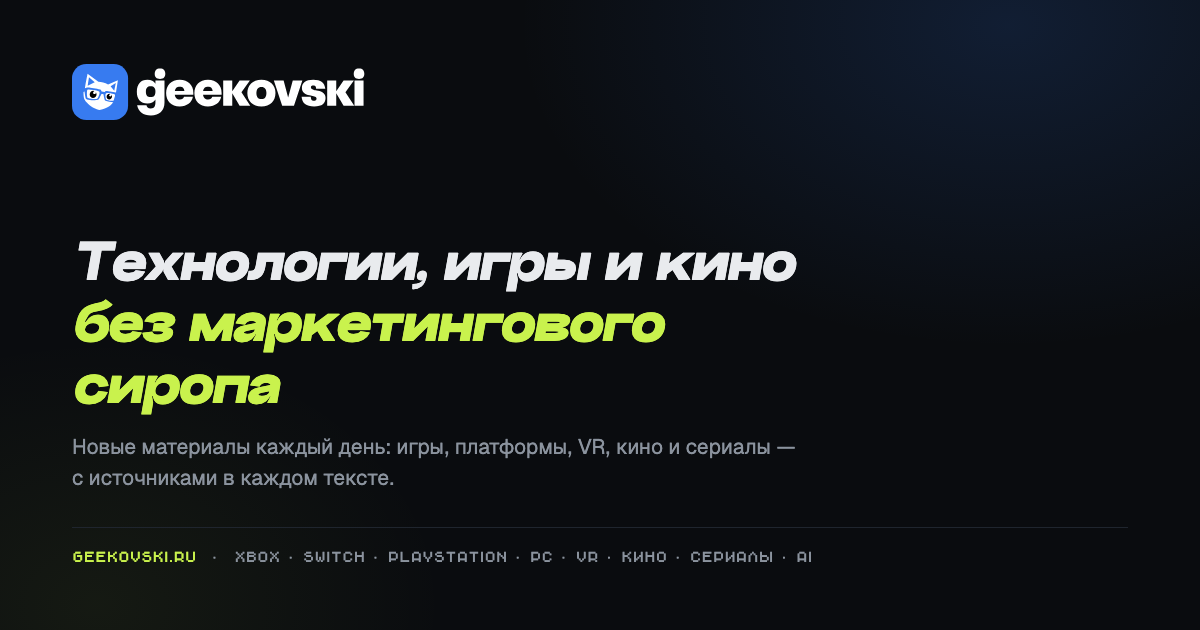
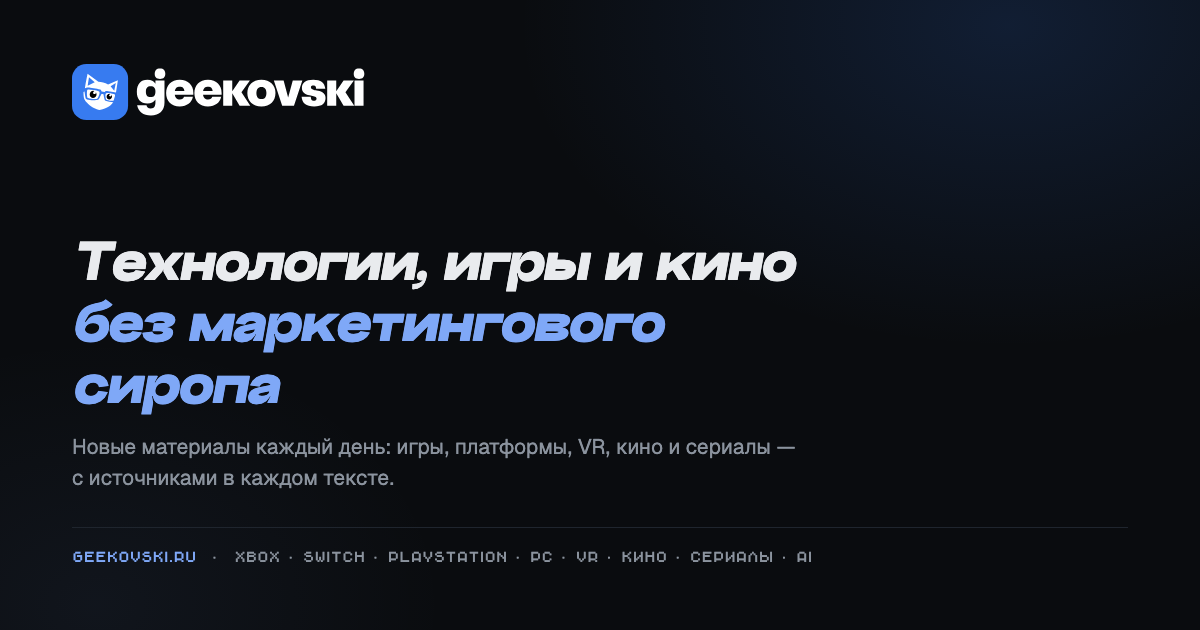
theme: акцент — синий из логотипа вместо лаймового
- тёмная тема: --accent #377bf0 (4.9:1 на фоне, 4.58:1 на плашке),
  краска на заливке — тёмная, 4.9:1
- светлая тема: тот же синий даёт на белом 3.86:1 — там затемнённый
  #1d54b8 (6.7:1), белая краска на заливке 6.97:1
- убраны opacity-затемнения поверх акцента (ditem__src, cal-history):
  они гасили синий ниже AA, теперь приглушение цветом
- og-default.png, обложки и пины — акцент #7fa8f7
- sw.js: кэш v3, чтобы новый theme.css не залипал

Changed region(s): [[0.0617, 0.4825, 0.555, 0.6635], [0.0617, 0.8746, 0.1542, 0.9048]]

diff --git a/docs/style-guide.html b/docs/style-guide.html
@@ -58,7 +58,7 @@
     </div>
   </div>
 </header>
-<main class="wrap sg"><section class="lead"><h1>Style Guide</h1><p>Единый набор типографики, цветов, компонентов и иконок блога. Всё, что не описано здесь, в вёрстке не используется.</p></section><section class="sg-block"><h2>Типографика</h2><div class="sg-row"><div class="sg-row__label">H0 · заголовок статьи<br><code>var(--fs-h0) · 52 px · дисплейный, 900 italic</code></div><div class="sg-row__demo"><div class="h0">Убыток Anthropic и Crimson Desert на PS5</div><div class="sg-row__spec">var(--fs-h0) · 52 px · дисплейный, 900 italic</div></div></div><div class="sg-row"><div class="sg-row__label">H1 · герой, H2 в тексте<br><code>var(--fs-h1) · 40 px</code></div><div class="sg-row__demo"><div class="h1">Ocarina of Time выходит 5 ноября</div><div class="sg-row__spec">var(--fs-h1) · 40 px</div></div></div><div class="sg-row"><div class="sg-row__label">H2 · карточки, H3 в тексте<br><code>var(--fs-h2) · 24 px</code></div><div class="sg-row__demo"><div class="h2">Pikmin 4: демо уже в eShop</div><div class="sg-row__spec">var(--fs-h2) · 24 px</div></div></div><div class="sg-row"><div class="sg-row__label">Лид<br><code>var(--fs-lead) · 17 px · Medeo Sans</code></div><div class="sg-row__demo"><div class="lead-text">Демо Pikmin 4 в eShop, Zelda выходит 5 ноября, Circana зафиксировала падение продаж.</div><div class="sg-row__spec">var(--fs-lead) · 17 px · Medeo Sans</div></div></div><div class="sg-row"><div class="sg-row__label">Основной текст<br><code>var(--fs-body) · 16 px · Medeo Sans</code></div><div class="sg-row__demo"><div class="body-text">Nintendo провела Pikmin Direct, предупредив за десять минут до эфира.</div><div class="sg-row__spec">var(--fs-body) · 16 px · Medeo Sans</div></div></div><div class="sg-row"><div class="sg-row__label">Мелкий текст<br><code>var(--fs-small) · 14 px</code></div><div class="sg-row__demo"><div class="small-text">Стартовая зона и два экзамена Dandori Academy</div><div class="sg-row__spec">var(--fs-small) · 14 px</div></div></div><div class="sg-row"><div class="sg-row__label">Метка · капитель<br><code>var(--fs-meta) · 12 px · Chava</code></div><div class="sg-row__demo"><div class="meta-text">NINTENDO SWITCH · 3 НОЯБРЯ</div><div class="sg-row__spec">var(--fs-meta) · 12 px · Chava</div></div></div></section><section class="sg-block"><h2>Палитра</h2><div class="sg-grid"><div class="sg-swatch"><span class="sg-swatch__chip" style="background:#0A0C0F"></span><span class="sg-swatch__name">ink</span><span class="sg-swatch__hex">#0A0C0F</span><span class="sg-swatch__note">фон</span></div><div class="sg-swatch"><span class="sg-swatch__chip" style="background:#11151A"></span><span class="sg-swatch__name">panel</span><span class="sg-swatch__hex">#11151A</span><span class="sg-swatch__note">плашки</span></div><div class="sg-swatch"><span class="sg-swatch__chip" style="background:#1F252E"></span><span class="sg-swatch__name">line</span><span class="sg-swatch__hex">#1F252E</span><span class="sg-swatch__note">разделители</span></div><div class="sg-swatch"><span class="sg-swatch__chip" style="background:#E9EBEE"></span><span class="sg-swatch__name">text</span><span class="sg-swatch__hex">#E9EBEE</span><span class="sg-swatch__note">основной текст</span></div><div class="sg-swatch"><span class="sg-swatch__chip" style="background:#8B939E"></span><span class="sg-swatch__name">muted</span><span class="sg-swatch__hex">#8B939E</span><span class="sg-swatch__note">второй план</span></div><div class="sg-swatch"><span class="sg-swatch__chip" style="background:#C9F24D"></span><span class="sg-swatch__name">accent</span><span class="sg-swatch__hex">#C9F24D</span><span class="sg-swatch__note">акцент</span></div></div><h3>Рубрики</h3><div class="sg-grid"><div class="sg-swatch"><span class="sg-swatch__chip" style="background:#2FB344"></span><span class="sg-swatch__name">Xbox</span><span class="sg-swatch__hex">#2FB344</span><span class="sg-swatch__note"></span></div><div class="sg-swatch"><span class="sg-swatch__chip" style="background:#E60012"></span><span class="sg-swatch__name">Nintendo Switch</span><span class="sg-swatch__hex">#E60012</span><span class="sg-swatch__note"></span></div><div class="sg-swatch"><span class="sg-swatch__chip" style="background:#2F6DF6"></span><span class="sg-swatch__name">PlayStation</span><span class="sg-swatch__hex">#2F6DF6</span><span class="sg-swatch__note"></span></div><div class="sg-swatch"><span class="sg-swatch__chip" style="background:#8B5CF6"></span><span class="sg-swatch__name">PC-игры</span><span class="sg-swatch__hex">#8B5CF6</span><span class="sg-swatch__note"></span></div><div class="sg-swatch"><span class="sg-swatch__chip" style="background:#A855F7"></span><span class="sg-swatch__name">VR</span><span class="sg-swatch__hex">#A855F7</span><span class="sg-swatch__note"></span></div><div class="sg-swatch"><span class="sg-swatch__chip" style="background:#22D3EE"></span><span class="sg-swatch__name">Гаджеты</span><span class="sg-swatch__hex">#22D3EE</span><span class="sg-swatch__note"></span></div><div class="sg-swatch"><span class="sg-swatch__chip" style="background:#F0553F"></span><span class="sg-swatch__name">Кино</span><span class="sg-swatch__hex">#F0553F</span><span class="sg-swatch__note"></span></div><div class="sg-swatch"><span class="sg-swatch__chip" style="background:#F5A524"></span><span class="sg-swatch__name">Сериалы</span><span class="sg-swatch__hex">#F5A524</span><span class="sg-swatch__note"></span></div><div class="sg-swatch"><span class="sg-swatch__chip" style="background:#14B8A6"></span><span class="sg-swatch__name">AI</span><span class="sg-swatch__hex">#14B8A6</span><span class="sg-swatch__note"></span></div></div><h3>Время суток в дайджестах</h3><div class="sg-grid"><div class="sg-swatch"><span class="sg-swatch__chip" style="background:#F5C518"></span><span class="sg-swatch__name">Утро</span><span class="sg-swatch__hex">#F5C518</span><span class="sg-swatch__note">жёлтый</span></div><div class="sg-swatch"><span class="sg-swatch__chip" style="background:#A855F7"></span><span class="sg-swatch__name">Вечер</span><span class="sg-swatch__hex">#A855F7</span><span class="sg-swatch__note">фиолетовый</span></div></div></section><section class="sg-block"><h2>Теги</h2><div class="sg-demo"><span class="chip cat-switch">Nintendo Switch</span><span class="chip cat-ai">AI</span><span class="chip cat-gadgets">Гаджеты</span><span class="chip cat-kino">Кино</span> <span class="chip chip--solid">Дайджест</span></div><p class="sg-hint">Chava, 12 px, uppercase, разрядка .08em. Цвет — маркер рубрики, не акцент.</p></section><section class="sg-block"><h2>Иконки рубрик</h2><div class="sg-icons"><div class="sg-icon"><span class="ditem__icon cat-xbox"><svg viewBox="0 0 24 24" width="20" height="20" fill="none" stroke="currentColor" stroke-width="1.8"><circle cx="12" cy="12" r="9"/><path d="M7.5 7.5c2.6 2.4 4.2 5.1 6 9M16.5 7.5c-2.6 2.4-4.2 5.1-6 9"/></svg></span><span>Xbox</span></div><div class="sg-icon"><span class="ditem__icon cat-switch"><svg viewBox="0 0 24 24" width="20" height="20" fill="none" stroke="currentColor" stroke-width="1.8"><rect x="3" y="5" width="8" height="14" rx="3"/><rect x="13" y="5" width="8" height="14" rx="3"/><circle cx="7" cy="9" r="1.3"/><circle cx="17" cy="15" r="1.3"/></svg></span><span>Nintendo Switch</span></div><div class="sg-icon"><span class="ditem__icon cat-playstation"><svg viewBox="0 0 24 24" width="20" height="20" fill="none" stroke="currentColor" stroke-width="1.8"><path d="M6 8v9l4-1.5V6c1.2-.6 2 .2 2 1.8V14l5-2c2-.8 3 .2 3 1.8 0 1.4-.8 2.3-2.4 2.9L9 20"/></svg></span><span>PlayStation</span></div><div class="sg-icon"><span class="ditem__icon cat-pc"><svg viewBox="0 0 24 24" width="20" height="20" fill="none" stroke="currentColor" stroke-width="1.8"><rect x="3" y="5" width="18" height="11" rx="2"/><path d="M8 20h8M12 16v4"/></svg></span><span>PC-игры</span></div><div class="sg-icon"><span class="ditem__icon cat-vr"><svg viewBox="0 0 24 24" width="20" height="20" fill="none" stroke="currentColor" stroke-width="1.8"><path d="M3 9h18v5a3 3 0 0 1-3 3h-3l-3-3-3 3H6a3 3 0 0 1-3-3z"/></svg></span><span>VR</span></div><div class="sg-icon"><span class="ditem__icon cat-gadgets"><svg viewBox="0 0 24 24" width="20" height="20" fill="none" stroke="currentColor" stroke-width="1.8"><rect x="7" y="2.5" width="10" height="19" rx="2.5"/><path d="M10.5 5.5h3"/></svg></span><span>Гаджеты</span></div><div class="sg-icon"><span class="ditem__icon cat-kino"><svg viewBox="0 0 24 24" width="20" height="20" fill="none" stroke="currentColor" stroke-width="1.8"><rect x="3" y="6" width="18" height="12" rx="2"/><path d="M8 6v12M16 6v12M3 12h18"/></svg></span><span>Кино</span></div><div class="sg-icon"><span class="ditem__icon cat-serialy"><svg viewBox="0 0 24 24" width="20" height="20" fill="none" stroke="currentColor" stroke-width="1.8"><rect x="3" y="7" width="18" height="12" rx="2"/><path d="M8 3l4 4 4-4"/></svg></span><span>Сериалы</span></div><div class="sg-icon"><span class="ditem__icon cat-ai"><svg viewBox="0 0 24 24" width="20" height="20" fill="none" stroke="currentColor" stroke-width="1.8"><rect x="7" y="7" width="10" height="10" rx="2"/><path d="M12 3v4M12 17v4M3 12h4M17 12h4"/></svg></span><span>AI</span></div></div><p class="sg-hint">Инлайн-SVG 24×24, цвет наследуется от рубрики. Иконки бренда:</p><div style="display:flex;flex-wrap:wrap;align-items:center;gap:16px;margin-top:8px;font-size:var(--fs-meta);color:var(--muted)"><span style="display:flex;align-items:center;gap:6px"><img src="/assets/img/favicon.svg" alt="" width="18" height="18">favicon</span><span style="display:flex;align-items:center;gap:6px"><img src="/assets/img/geekovski-icon.svg" alt="" width="18" height="18">знак</span><span style="display:flex;align-items:center;gap:6px"><img src="/assets/img/geekovski-logo.svg" alt="" width="73" height="14" style="background:#0A0C0F;padding:3px 6px;border-radius:4px">лого на тёмном</span><span style="display:flex;align-items:center;gap:6px"><img src="/assets/img/geekovski-logo-light.svg" alt="" width="73" height="14" style="background:#fff;padding:3px 6px;border-radius:4px">лого на светлом</span></div></section><section class="sg-block"><h2>Компоненты</h2><h3>Карточка материала</h3><div class="sg-demo"><article class="sg-card"><div class="card__body"><div class="card__meta"><span class="chip cat-switch">Nintendo Switch</span><time>3 ноября</time></div><h3 class="card__title">Pikmin 4: демо уже в eShop</h3><p class="card__sum">Стартовая зона и два экзамена Dandori Academy, сейв переносится.</p><div class="card__foot"><a class="more">Читать →</a><span>источников: 2</span></div></div></article></div><h3>Новость в дайджесте</h3><div class="sg-demo sg-demo--narrow"><article class="ditem cat-switch"><div class="ditem__rail"><span class="ditem__num">01</span><span class="ditem__icon"><svg viewBox="0 0 24 24" width="20" height="20" fill="none" stroke="currentColor" stroke-width="1.8"><rect x="3" y="5" width="8" height="14" rx="3"/><rect x="13" y="5" width="8" height="14" rx="3"/><circle cx="7" cy="9" r="1.3"/><circle cx="17" cy="15" r="1.3"/></svg></span></div><div class="ditem__body"><div class="ditem__meta"><span class="chip chip--sm cat-switch">Nintendo Switch</span></div><h3 class="ditem__title">Демо Pikmin 4 уже в eShop</h3><p class="ditem__text">Стартовая зона и два экзамена Dandori Academy, сейв переносится.</p><a class="ditem__src">Nintendo Life</a></div></article></div><h3>Выпуск в списке дайджестов</h3><div class="sg-demo sg-demo--narrow"><article class="drow is-evening"><a class="drow__date"><span class="drow__day">3 ноября</span><span class="drow__part">ВЕЧЕР</span></a><div class="drow__body"><h3 class="drow__title">Убыток Anthropic, Crimson Desert на PS5</h3><p class="drow__sum">Квартальная выручка $17 млрд, Crimson Desert снова не держит 30 fps.</p><div class="drow__tags"><span class="chip chip--sm cat-ai">AI</span></div></div><span class="drow__count">6 новостей</span></article></div><h3>Поделиться</h3><section class="share" data-share-root>
+<main class="wrap sg"><section class="lead"><h1>Style Guide</h1><p>Единый набор типографики, цветов, компонентов и иконок блога. Всё, что не описано здесь, в вёрстке не используется.</p></section><section class="sg-block"><h2>Типографика</h2><div class="sg-row"><div class="sg-row__label">H0 · заголовок статьи<br><code>var(--fs-h0) · 52 px · дисплейный, 900 italic</code></div><div class="sg-row__demo"><div class="h0">Убыток Anthropic и Crimson Desert на PS5</div><div class="sg-row__spec">var(--fs-h0) · 52 px · дисплейный, 900 italic</div></div></div><div class="sg-row"><div class="sg-row__label">H1 · герой, H2 в тексте<br><code>var(--fs-h1) · 40 px</code></div><div class="sg-row__demo"><div class="h1">Ocarina of Time выходит 5 ноября</div><div class="sg-row__spec">var(--fs-h1) · 40 px</div></div></div><div class="sg-row"><div class="sg-row__label">H2 · карточки, H3 в тексте<br><code>var(--fs-h2) · 24 px</code></div><div class="sg-row__demo"><div class="h2">Pikmin 4: демо уже в eShop</div><div class="sg-row__spec">var(--fs-h2) · 24 px</div></div></div><div class="sg-row"><div class="sg-row__label">Лид<br><code>var(--fs-lead) · 17 px · Medeo Sans</code></div><div class="sg-row__demo"><div class="lead-text">Демо Pikmin 4 в eShop, Zelda выходит 5 ноября, Circana зафиксировала падение продаж.</div><div class="sg-row__spec">var(--fs-lead) · 17 px · Medeo Sans</div></div></div><div class="sg-row"><div class="sg-row__label">Основной текст<br><code>var(--fs-body) · 16 px · Medeo Sans</code></div><div class="sg-row__demo"><div class="body-text">Nintendo провела Pikmin Direct, предупредив за десять минут до эфира.</div><div class="sg-row__spec">var(--fs-body) · 16 px · Medeo Sans</div></div></div><div class="sg-row"><div class="sg-row__label">Мелкий текст<br><code>var(--fs-small) · 14 px</code></div><div class="sg-row__demo"><div class="small-text">Стартовая зона и два экзамена Dandori Academy</div><div class="sg-row__spec">var(--fs-small) · 14 px</div></div></div><div class="sg-row"><div class="sg-row__label">Метка · капитель<br><code>var(--fs-meta) · 12 px · Chava</code></div><div class="sg-row__demo"><div class="meta-text">NINTENDO SWITCH · 3 НОЯБРЯ</div><div class="sg-row__spec">var(--fs-meta) · 12 px · Chava</div></div></div></section><section class="sg-block"><h2>Палитра</h2><div class="sg-grid"><div class="sg-swatch"><span class="sg-swatch__chip" style="background:#0A0C0F"></span><span class="sg-swatch__name">ink</span><span class="sg-swatch__hex">#0A0C0F</span><span class="sg-swatch__note">фон</span></div><div class="sg-swatch"><span class="sg-swatch__chip" style="background:#11151A"></span><span class="sg-swatch__name">panel</span><span class="sg-swatch__hex">#11151A</span><span class="sg-swatch__note">плашки</span></div><div class="sg-swatch"><span class="sg-swatch__chip" style="background:#1F252E"></span><span class="sg-swatch__name">line</span><span class="sg-swatch__hex">#1F252E</span><span class="sg-swatch__note">разделители</span></div><div class="sg-swatch"><span class="sg-swatch__chip" style="background:#E9EBEE"></span><span class="sg-swatch__name">text</span><span class="sg-swatch__hex">#E9EBEE</span><span class="sg-swatch__note">основной текст</span></div><div class="sg-swatch"><span class="sg-swatch__chip" style="background:#8B939E"></span><span class="sg-swatch__name">muted</span><span class="sg-swatch__hex">#8B939E</span><span class="sg-swatch__note">второй план</span></div><div class="sg-swatch"><span class="sg-swatch__chip" style="background:#377BF0"></span><span class="sg-swatch__name">accent</span><span class="sg-swatch__hex">#377BF0</span><span class="sg-swatch__note">акцент (синий из логотипа)</span></div></div><h3>Рубрики</h3><div class="sg-grid"><div class="sg-swatch"><span class="sg-swatch__chip" style="background:#2FB344"></span><span class="sg-swatch__name">Xbox</span><span class="sg-swatch__hex">#2FB344</span><span class="sg-swatch__note"></span></div><div class="sg-swatch"><span class="sg-swatch__chip" style="background:#E60012"></span><span class="sg-swatch__name">Nintendo Switch</span><span class="sg-swatch__hex">#E60012</span><span class="sg-swatch__note"></span></div><div class="sg-swatch"><span class="sg-swatch__chip" style="background:#2F6DF6"></span><span class="sg-swatch__name">PlayStation</span><span class="sg-swatch__hex">#2F6DF6</span><span class="sg-swatch__note"></span></div><div class="sg-swatch"><span class="sg-swatch__chip" style="background:#8B5CF6"></span><span class="sg-swatch__name">PC-игры</span><span class="sg-swatch__hex">#8B5CF6</span><span class="sg-swatch__note"></span></div><div class="sg-swatch"><span class="sg-swatch__chip" style="background:#A855F7"></span><span class="sg-swatch__name">VR</span><span class="sg-swatch__hex">#A855F7</span><span class="sg-swatch__note"></span></div><div class="sg-swatch"><span class="sg-swatch__chip" style="background:#22D3EE"></span><span class="sg-swatch__name">Гаджеты</span><span class="sg-swatch__hex">#22D3EE</span><span class="sg-swatch__note"></span></div><div class="sg-swatch"><span class="sg-swatch__chip" style="background:#F0553F"></span><span class="sg-swatch__name">Кино</span><span class="sg-swatch__hex">#F0553F</span><span class="sg-swatch__note"></span></div><div class="sg-swatch"><span class="sg-swatch__chip" style="background:#F5A524"></span><span class="sg-swatch__name">Сериалы</span><span class="sg-swatch__hex">#F5A524</span><span class="sg-swatch__note"></span></div><div class="sg-swatch"><span class="sg-swatch__chip" style="background:#14B8A6"></span><span class="sg-swatch__name">AI</span><span class="sg-swatch__hex">#14B8A6</span><span class="sg-swatch__note"></span></div></div><h3>Время суток в дайджестах</h3><div class="sg-grid"><div class="sg-swatch"><span class="sg-swatch__chip" style="background:#F5C518"></span><span class="sg-swatch__name">Утро</span><span class="sg-swatch__hex">#F5C518</span><span class="sg-swatch__note">жёлтый</span></div><div class="sg-swatch"><span class="sg-swatch__chip" style="background:#A855F7"></span><span class="sg-swatch__name">Вечер</span><span class="sg-swatch__hex">#A855F7</span><span class="sg-swatch__note">фиолетовый</span></div></div></section><section class="sg-block"><h2>Теги</h2><div class="sg-demo"><span class="chip cat-switch">Nintendo Switch</span><span class="chip cat-ai">AI</span><span class="chip cat-gadgets">Гаджеты</span><span class="chip cat-kino">Кино</span> <span class="chip chip--solid">Дайджест</span></div><p class="sg-hint">Chava, 12 px, uppercase, разрядка .08em. Цвет — маркер рубрики, не акцент.</p></section><section class="sg-block"><h2>Иконки рубрик</h2><div class="sg-icons"><div class="sg-icon"><span class="ditem__icon cat-xbox"><svg viewBox="0 0 24 24" width="20" height="20" fill="none" stroke="currentColor" stroke-width="1.8"><circle cx="12" cy="12" r="9"/><path d="M7.5 7.5c2.6 2.4 4.2 5.1 6 9M16.5 7.5c-2.6 2.4-4.2 5.1-6 9"/></svg></span><span>Xbox</span></div><div class="sg-icon"><span class="ditem__icon cat-switch"><svg viewBox="0 0 24 24" width="20" height="20" fill="none" stroke="currentColor" stroke-width="1.8"><rect x="3" y="5" width="8" height="14" rx="3"/><rect x="13" y="5" width="8" height="14" rx="3"/><circle cx="7" cy="9" r="1.3"/><circle cx="17" cy="15" r="1.3"/></svg></span><span>Nintendo Switch</span></div><div class="sg-icon"><span class="ditem__icon cat-playstation"><svg viewBox="0 0 24 24" width="20" height="20" fill="none" stroke="currentColor" stroke-width="1.8"><path d="M6 8v9l4-1.5V6c1.2-.6 2 .2 2 1.8V14l5-2c2-.8 3 .2 3 1.8 0 1.4-.8 2.3-2.4 2.9L9 20"/></svg></span><span>PlayStation</span></div><div class="sg-icon"><span class="ditem__icon cat-pc"><svg viewBox="0 0 24 24" width="20" height="20" fill="none" stroke="currentColor" stroke-width="1.8"><rect x="3" y="5" width="18" height="11" rx="2"/><path d="M8 20h8M12 16v4"/></svg></span><span>PC-игры</span></div><div class="sg-icon"><span class="ditem__icon cat-vr"><svg viewBox="0 0 24 24" width="20" height="20" fill="none" stroke="currentColor" stroke-width="1.8"><path d="M3 9h18v5a3 3 0 0 1-3 3h-3l-3-3-3 3H6a3 3 0 0 1-3-3z"/></svg></span><span>VR</span></div><div class="sg-icon"><span class="ditem__icon cat-gadgets"><svg viewBox="0 0 24 24" width="20" height="20" fill="none" stroke="currentColor" stroke-width="1.8"><rect x="7" y="2.5" width="10" height="19" rx="2.5"/><path d="M10.5 5.5h3"/></svg></span><span>Гаджеты</span></div><div class="sg-icon"><span class="ditem__icon cat-kino"><svg viewBox="0 0 24 24" width="20" height="20" fill="none" stroke="currentColor" stroke-width="1.8"><rect x="3" y="6" width="18" height="12" rx="2"/><path d="M8 6v12M16 6v12M3 12h18"/></svg></span><span>Кино</span></div><div class="sg-icon"><span class="ditem__icon cat-serialy"><svg viewBox="0 0 24 24" width="20" height="20" fill="none" stroke="currentColor" stroke-width="1.8"><rect x="3" y="7" width="18" height="12" rx="2"/><path d="M8 3l4 4 4-4"/></svg></span><span>Сериалы</span></div><div class="sg-icon"><span class="ditem__icon cat-ai"><svg viewBox="0 0 24 24" width="20" height="20" fill="none" stroke="currentColor" stroke-width="1.8"><rect x="7" y="7" width="10" height="10" rx="2"/><path d="M12 3v4M12 17v4M3 12h4M17 12h4"/></svg></span><span>AI</span></div></div><p class="sg-hint">Инлайн-SVG 24×24, цвет наследуется от рубрики. Иконки бренда:</p><div style="display:flex;flex-wrap:wrap;align-items:center;gap:16px;margin-top:8px;font-size:var(--fs-meta);color:var(--muted)"><span style="display:flex;align-items:center;gap:6px"><img src="/assets/img/favicon.svg" alt="" width="18" height="18">favicon</span><span style="display:flex;align-items:center;gap:6px"><img src="/assets/img/geekovski-icon.svg" alt="" width="18" height="18">знак</span><span style="display:flex;align-items:center;gap:6px"><img src="/assets/img/geekovski-logo.svg" alt="" width="73" height="14" style="background:#0A0C0F;padding:3px 6px;border-radius:4px">лого на тёмном</span><span style="display:flex;align-items:center;gap:6px"><img src="/assets/img/geekovski-logo-light.svg" alt="" width="73" height="14" style="background:#fff;padding:3px 6px;border-radius:4px">лого на светлом</span></div></section><section class="sg-block"><h2>Компоненты</h2><h3>Карточка материала</h3><div class="sg-demo"><article class="sg-card"><div class="card__body"><div class="card__meta"><span class="chip cat-switch">Nintendo Switch</span><time>3 ноября</time></div><h3 class="card__title">Pikmin 4: демо уже в eShop</h3><p class="card__sum">Стартовая зона и два экзамена Dandori Academy, сейв переносится.</p><div class="card__foot"><a class="more">Читать →</a><span>источников: 2</span></div></div></article></div><h3>Новость в дайджесте</h3><div class="sg-demo sg-demo--narrow"><article class="ditem cat-switch"><div class="ditem__rail"><span class="ditem__num">01</span><span class="ditem__icon"><svg viewBox="0 0 24 24" width="20" height="20" fill="none" stroke="currentColor" stroke-width="1.8"><rect x="3" y="5" width="8" height="14" rx="3"/><rect x="13" y="5" width="8" height="14" rx="3"/><circle cx="7" cy="9" r="1.3"/><circle cx="17" cy="15" r="1.3"/></svg></span></div><div class="ditem__body"><div class="ditem__meta"><span class="chip chip--sm cat-switch">Nintendo Switch</span></div><h3 class="ditem__title">Демо Pikmin 4 уже в eShop</h3><p class="ditem__text">Стартовая зона и два экзамена Dandori Academy, сейв переносится.</p><a class="ditem__src">Nintendo Life</a></div></article></div><h3>Выпуск в списке дайджестов</h3><div class="sg-demo sg-demo--narrow"><article class="drow is-evening"><a class="drow__date"><span class="drow__day">3 ноября</span><span class="drow__part">ВЕЧЕР</span></a><div class="drow__body"><h3 class="drow__title">Убыток Anthropic, Crimson Desert на PS5</h3><p class="drow__sum">Квартальная выручка $17 млрд, Crimson Desert снова не держит 30 fps.</p><div class="drow__tags"><span class="chip chip--sm cat-ai">AI</span></div></div><span class="drow__count">6 новостей</span></article></div><h3>Поделиться</h3><section class="share" data-share-root>
   <span class="share__label">Поделиться</span>
   <a class="share__btn" href="https://t.me/share/url?url=https%3A%2F%2Fgeekovski.ru%2Fstyle-guide.html&text=Style%20Guide%20GEEKOVSKI" target="_blank" rel="noopener nofollow">Telegram</a>
   <a class="share__btn" href="https://vk.com/share.php?url=https%3A%2F%2Fgeekovski.ru%2Fstyle-guide.html&title=Style%20Guide%20GEEKOVSKI" target="_blank" rel="noopener nofollow">ВКонтакте</a>

diff --git a/docs/assets/theme.css b/docs/assets/theme.css
@@ -72,19 +72,25 @@ h1, h2, h3, h4 {
 }
 
 /* GEEKOVSKI — тема «Редакция»: тёмный фон, крупная типографика, ленты рубрик */
+/* Акцент — синий из логотипа (#377BF0), раньше был лаймовый #c9f24d.
+   Контраст посчитан по WCAG 2.1 (порог AA для текста 4.5:1, для заливок и обводок 3:1):
+   · тёмная тема: #377bf0 на --bg 4.9:1, на --panel 4.58:1, краска --accent-ink на заливке 4.9:1;
+   · светлая тема: тот же синий на --bg даёт 3.86:1 — мало для текста, поэтому там
+     затемнённый брендовый #1d54b8: на --bg 6.73:1, белая краска на заливке 6.97:1.
+   Меняешь акцент — пересчитай эти пары, а не подбирай на глаз. */
 :root, .t-editorial {
   --bg: #0a0c0f;
   --panel: #11151a;
   --line: #1f252e;
   --text: #e9ebee;
   --muted: #8b939e;
-  --accent: #c9f24d;
+  --accent: #377bf0;
   --accent-ink: #0a0c0f;
   --radius: 4px;
 }
 [data-mode="light"] .t-editorial {
   --bg: #fbfbf9; --panel: #fff; --line: #e3e4df; --text: #14161a; --muted: #62676f;
-  --accent: #6d8f00; --accent-ink: #fff;
+  --accent: #1d54b8; --accent-ink: #fff;
 }
 
 * { box-sizing: border-box; }
@@ -242,7 +248,7 @@ a.chip:hover, a.chip:focus-visible { border-color: currentColor; }
 .ditem__meta { margin: 0 0 12px; }
 .ditem__title { font-family: var(--font-display); font-size: var(--fs-h2); line-height: 1.2; margin: 6px 0 8px; font-weight: var(--fw-display); font-style: italic; letter-spacing: -.015em; }
 .ditem__text { margin: 0 0 8px; color: var(--muted); font-size: var(--fs-small); line-height: 1.55; }
-.ditem__src { font-family: var(--font-mono); font-size: var(--fs-meta); color: var(--text); text-decoration: underline; text-underline-offset: 2px; opacity: .8; }
+.ditem__src { font-family: var(--font-mono); font-size: var(--fs-meta); color: color-mix(in srgb, var(--text) 82%, var(--bg)); text-decoration: underline; text-underline-offset: 2px; }
 .ditem__src:hover { color: var(--accent); }
 .chip--sm { padding: 2px 6px; }
 /* чипы рубрик: свой цвет у каждой — обводка и текст одним цветом */
@@ -531,7 +537,7 @@ a.anno:hover .anno__cover img { transform: scale(1.03); }
   .backrow { padding: 14px 0 2px; }
   .backlink { width: 100%; justify-content: center; padding: 12px 14px; }
 }
-a.tlink { color: var(--accent); text-decoration: none; border-bottom: 1px dashed rgba(201,242,77,.5); }
+a.tlink { color: var(--accent); text-decoration: none; border-bottom: 1px dashed color-mix(in srgb, var(--accent) 55%, transparent); }
 a.tlink:hover { border-bottom-style: solid; }
 .mnews { display: flex; flex-direction: column; gap: 4px; padding: 12px 14px; margin-bottom: 8px;
   border: 1px solid var(--line); border-left: 3px solid var(--accent); border-radius: 4px;
@@ -552,8 +558,10 @@ a.tlink:hover { border-bottom-style: solid; }
 .cal-week .rubric__head, .cal-month .rubric__head, .cal-later .rubric__head { margin-bottom: 6px; }
 .cal-month { margin-top: 44px; padding-top: 22px; border-top: 1px solid var(--line); }
 .cal-month .mrow:last-child { border-bottom: 0; }
-.cal-history { opacity: .82; }
+/* Прошедшие месяцы приглушаем цветом, а не opacity: прозрачность на блоке
+   гасит и акцентный заголовок (у #377bf0 на тёмном оставалось 3.6:1 вместо 4.9:1). */
 .mblock--past .mrow { color: var(--muted); }
+.mblock--past .mblock__h { color: var(--muted); }
 
 /* Таблицы в тексте статьи. На мобиле таблица не ломает вёрстку:
    .table-wrap скроллится по горизонтали, тело таблицы получает min-width,

diff --git a/static/themes/editorial.css b/static/themes/editorial.css
@@ -1,17 +1,23 @@
 /* GEEKOVSKI — тема «Редакция»: тёмный фон, крупная типографика, ленты рубрик */
+/* Акцент — синий из логотипа (#377BF0), раньше был лаймовый #c9f24d.
+   Контраст посчитан по WCAG 2.1 (порог AA для текста 4.5:1, для заливок и обводок 3:1):
+   · тёмная тема: #377bf0 на --bg 4.9:1, на --panel 4.58:1, краска --accent-ink на заливке 4.9:1;
+   · светлая тема: тот же синий на --bg даёт 3.86:1 — мало для текста, поэтому там
+     затемнённый брендовый #1d54b8: на --bg 6.73:1, белая краска на заливке 6.97:1.
+   Меняешь акцент — пересчитай эти пары, а не подбирай на глаз. */
 :root, .t-editorial {
   --bg: #0a0c0f;
   --panel: #11151a;
   --line: #1f252e;
   --text: #e9ebee;
   --muted: #8b939e;
-  --accent: #c9f24d;
+  --accent: #377bf0;
   --accent-ink: #0a0c0f;
   --radius: 4px;
 }
 [data-mode="light"] .t-editorial {
   --bg: #fbfbf9; --panel: #fff; --line: #e3e4df; --text: #14161a; --muted: #62676f;
-  --accent: #6d8f00; --accent-ink: #fff;
+  --accent: #1d54b8; --accent-ink: #fff;
 }
 
 * { box-sizing: border-box; }
@@ -169,7 +175,7 @@ a.chip:hover, a.chip:focus-visible { border-color: currentColor; }
 .ditem__meta { margin: 0 0 12px; }
 .ditem__title { font-family: var(--font-display); font-size: var(--fs-h2); line-height: 1.2; margin: 6px 0 8px; font-weight: var(--fw-display); font-style: italic; letter-spacing: -.015em; }
 .ditem__text { margin: 0 0 8px; color: var(--muted); font-size: var(--fs-small); line-height: 1.55; }
-.ditem__src { font-family: var(--font-mono); font-size: var(--fs-meta); color: var(--text); text-decoration: underline; text-underline-offset: 2px; opacity: .8; }
+.ditem__src { font-family: var(--font-mono); font-size: var(--fs-meta); color: color-mix(in srgb, var(--text) 82%, var(--bg)); text-decoration: underline; text-underline-offset: 2px; }
 .ditem__src:hover { color: var(--accent); }
 .chip--sm { padding: 2px 6px; }
 /* чипы рубрик: свой цвет у каждой — обводка и текст одним цветом */
@@ -458,7 +464,7 @@ a.anno:hover .anno__cover img { transform: scale(1.03); }
   .backrow { padding: 14px 0 2px; }
   .backlink { width: 100%; justify-content: center; padding: 12px 14px; }
 }
-a.tlink { color: var(--accent); text-decoration: none; border-bottom: 1px dashed rgba(201,242,77,.5); }
+a.tlink { color: var(--accent); text-decoration: none; border-bottom: 1px dashed color-mix(in srgb, var(--accent) 55%, transparent); }
 a.tlink:hover { border-bottom-style: solid; }
 .mnews { display: flex; flex-direction: column; gap: 4px; padding: 12px 14px; margin-bottom: 8px;
   border: 1px solid var(--line); border-left: 3px solid var(--accent); border-radius: 4px;
@@ -479,8 +485,10 @@ a.tlink:hover { border-bottom-style: solid; }
 .cal-week .rubric__head, .cal-month .rubric__head, .cal-later .rubric__head { margin-bottom: 6px; }
 .cal-month { margin-top: 44px; padding-top: 22px; border-top: 1px solid var(--line); }
 .cal-month .mrow:last-child { border-bottom: 0; }
-.cal-history { opacity: .82; }
+/* Прошедшие месяцы приглушаем цветом, а не opacity: прозрачность на блоке
+   гасит и акцентный заголовок (у #377bf0 на тёмном оставалось 3.6:1 вместо 4.9:1). */
 .mblock--past .mrow { color: var(--muted); }
+.mblock--past .mblock__h { color: var(--muted); }
 
 /* Таблицы в тексте статьи. На мобиле таблица не ломает вёрстку:
    .table-wrap скроллится по горизонтали, тело таблицы получает min-width,

diff --git a/tools/covers-t6.html b/tools/covers-t6.html
@@ -1,1 +1,1 @@
-<!DOCTYPE html><html lang='ru'><head><meta charset='utf-8'><link rel='stylesheet' href='https://geekovski.ru/assets/fonts.css'><style>*{box-sizing:border-box;margin:0}body{width:1200px;height:675px;background:#0A0C0F;color:#E9EBEE;font-family:'Medeo Sans',sans-serif;position:relative;overflow:hidden}.photo{position:absolute;inset:0;width:100%;height:100%;object-fit:cover;object-position:center 42%}.scrim{position:absolute;inset:0;background:linear-gradient(90deg,rgba(10,12,15,.99) 0%,rgba(10,12,15,.94) 42%,rgba(10,12,15,.45) 70%,rgba(10,12,15,.08) 100%)}.wrap{position:absolute;inset:0;padding:72px;display:flex;flex-direction:column}.top{display:flex;align-items:center;justify-content:space-between}.kicker{font-family:'Chava',monospace;font-size:12px;letter-spacing:.16em;text-transform:uppercase;color:#C9F24D}.brand{display:flex;align-items:center;gap:9px;font-family:'Chava',monospace;font-size:11px;letter-spacing:.12em;text-transform:uppercase;color:#cfd4da}.brand img{width:24px;height:24px;display:block;border-radius:4px}.h1{font-family:'Chava',sans-serif;font-size:68px;line-height:1.18;margin-top:auto;max-width:15ch}.bot{margin-top:26px;display:flex;flex-direction:column;gap:6px;font-family:'Chava',monospace;font-size:11px;letter-spacing:.06em;color:#8B939E}.credit{font-size:10px;opacity:.7}</style></head><body><img class='photo' src='https://doop.design/a/ITfwviwnMs.jpg' alt=''><div class='scrim'></div><div class='wrap'><div class='top'><div class='kicker'>Nintendo Switch</div><div class='brand'><img src='https://geekovski.ru/assets/img/favicon.svg' alt=''>GEEKOVSKI</div></div><div class='h1'>Ocarina of Time выходит 5 ноября</div><div class='bot'><span>2 ноября 2026</span><span class='credit'>фото: Crisco 1492 / Wikimedia</span></div></div></body></html>
+<!DOCTYPE html><html lang='ru'><head><meta charset='utf-8'><link rel='stylesheet' href='https://geekovski.ru/assets/fonts.css'><style>*{box-sizing:border-box;margin:0}body{width:1200px;height:675px;background:#0A0C0F;color:#E9EBEE;font-family:'Medeo Sans',sans-serif;position:relative;overflow:hidden}.photo{position:absolute;inset:0;width:100%;height:100%;object-fit:cover;object-position:center 42%}.scrim{position:absolute;inset:0;background:linear-gradient(90deg,rgba(10,12,15,.99) 0%,rgba(10,12,15,.94) 42%,rgba(10,12,15,.45) 70%,rgba(10,12,15,.08) 100%)}.wrap{position:absolute;inset:0;padding:72px;display:flex;flex-direction:column}.top{display:flex;align-items:center;justify-content:space-between}.kicker{font-family:'Chava',monospace;font-size:12px;letter-spacing:.16em;text-transform:uppercase;color:#7FA8F7}.brand{display:flex;align-items:center;gap:9px;font-family:'Chava',monospace;font-size:11px;letter-spacing:.12em;text-transform:uppercase;color:#cfd4da}.brand img{width:24px;height:24px;display:block;border-radius:4px}.h1{font-family:'Chava',sans-serif;font-size:68px;line-height:1.18;margin-top:auto;max-width:15ch}.bot{margin-top:26px;display:flex;flex-direction:column;gap:6px;font-family:'Chava',monospace;font-size:11px;letter-spacing:.06em;color:#8B939E}.credit{font-size:10px;opacity:.7}</style></head><body><img class='photo' src='https://doop.design/a/ITfwviwnMs.jpg' alt=''><div class='scrim'></div><div class='wrap'><div class='top'><div class='kicker'>Nintendo Switch</div><div class='brand'><img src='https://geekovski.ru/assets/img/favicon.svg' alt=''>GEEKOVSKI</div></div><div class='h1'>Ocarina of Time выходит 5 ноября</div><div class='bot'><span>2 ноября 2026</span><span class='credit'>фото: Crisco 1492 / Wikimedia</span></div></div></body></html>

diff --git a/design/references.html b/design/references.html
@@ -5,15 +5,15 @@
   .kicker { font-size: 11px; letter-spacing: .16em; text-transform: uppercase; color: var(--muted-foreground, #9aa3ae); margin: 0 0 10px; }
   h1 { font-size: 30px; line-height: 1.12; margin: 0 0 12px; letter-spacing: -.01em; }
   .lead { font-size: 15px; line-height: 1.55; color: var(--muted-foreground, #9aa3ae); margin: 0 0 14px; max-width: 76ch; }
-  .note { border-left: 2px solid var(--accent, #c9f24d); padding: 2px 0 2px 12px; font-size: 12.5px; line-height: 1.5; color: var(--muted-foreground, #9aa3ae); margin: 0 0 32px; max-width: 80ch; }
+  .note { border-left: 2px solid var(--accent, #7fa8f7); padding: 2px 0 2px 12px; font-size: 12.5px; line-height: 1.5; color: var(--muted-foreground, #9aa3ae); margin: 0 0 32px; max-width: 80ch; }
   h2 { display: flex; align-items: baseline; gap: 10px; font-size: 13px; letter-spacing: .14em; text-transform: uppercase; margin: 34px 0 14px; padding-bottom: 8px; border-bottom: 1px solid var(--border, #2a313b); font-weight: 600; }
-  h2 .num { color: var(--accent, #c9f24d); font-variant-numeric: tabular-nums; }
+  h2 .num { color: var(--accent, #7fa8f7); font-variant-numeric: tabular-nums; }
   .grid { display: grid; grid-template-columns: repeat(auto-fit, minmax(420px, 1fr)); gap: 16px; }
   .card { border: 1px solid var(--border, #2a313b); border-radius: 10px; overflow: hidden; background: var(--card, #11151a); display: flex; flex-direction: column; }
   .card img { display: block; width: 100%; height: auto; border-bottom: 1px solid var(--border, #2a313b); }
   .card__body { padding: 12px 14px 14px; }
   .card__top { display: flex; justify-content: space-between; align-items: baseline; gap: 8px; font-size: 11px; letter-spacing: .08em; text-transform: uppercase; color: var(--muted-foreground, #9aa3ae); margin-bottom: 4px; }
-  .rank { color: var(--accent, #c9f24d); white-space: nowrap; }
+  .rank { color: var(--accent, #7fa8f7); white-space: nowrap; }
   .card h3 { margin: 0 0 8px; font-size: 17px; line-height: 1.2; }
   .pts { margin: 0 0 10px; padding-left: 16px; font-size: 13px; line-height: 1.5; }
   .pts li { margin-bottom: 5px; }

diff --git a/tools/og-source.html b/tools/og-source.html
@@ -9,7 +9,7 @@ body{width:1200px;height:630px;background:#0A0C0F;color:#E9EBEE;position:relativ
      font-family:'Medeo Sans',-apple-system,'Segoe UI',sans-serif}
 body:before{content:'';position:absolute;inset:0;
   background:radial-gradient(700px 460px at 84% 4%,rgba(55,123,240,.16),transparent 70%),
-             radial-gradient(500px 380px at 8% 96%,rgba(201,242,77,.06),transparent 70%)}
+             radial-gradient(500px 380px at 8% 96%,rgba(127,168,247,.06),transparent 70%)}
 .in{position:absolute;inset:0;padding:64px 72px;display:flex;flex-direction:column}
 .top{display:flex;align-items:center}
 /* знак целиком — брендовый логотип: иконка + вордмарк, как в шапке сайта */
@@ -17,12 +17,12 @@ body:before{content:'';position:absolute;inset:0;
 .mid{margin-top:auto}
 .h{font-family:'Random Grotesque Spacious','Medeo Sans',sans-serif;font-style:italic;font-weight:900;
    font-size:58px;line-height:1.06;letter-spacing:-.025em;color:#E9EBEE;max-width:22ch}
-.h em{color:#C9F24D;font-style:italic}
+.h em{color:#7FA8F7;font-style:italic}
 .sub{font-size:21px;line-height:1.45;color:#8B939E;margin-top:18px;max-width:52ch}
 /* метки и системная строка — Chava, как чипы и навигация на сайте */
 .bot{margin-top:34px;padding-top:20px;border-top:1px solid #1F252E;display:flex;gap:14px;align-items:baseline;
      font-family:'Chava','Medeo Mono',monospace;font-size:14px;letter-spacing:.1em;text-transform:uppercase;color:#8B939E}
-.bot b{color:#C9F24D;font-weight:400}
+.bot b{color:#7FA8F7;font-weight:400}
 </style></head><body>
 <div class="in">
   <div class="top">

diff --git a/tools/cover-photo.html b/tools/cover-photo.html
@@ -7,7 +7,7 @@ body{width:1200px;height:675px;background:#0A0C0F;color:#E9EBEE;font-family:'Med
 .scrim{position:absolute;inset:0;background:linear-gradient(90deg,rgba(10,12,15,.97) 0%,rgba(10,12,15,.88) 38%,rgba(10,12,15,.25) 72%,rgba(10,12,15,.05) 100%)}
 .wrap{position:absolute;inset:0;padding:72px;display:flex;flex-direction:column}
 .top{display:flex;align-items:center;justify-content:space-between}
-.kicker{font-family:'Medeo Mono',monospace;font-size:12px;letter-spacing:.18em;text-transform:uppercase;color:#C9F24D;font-weight:600}
+.kicker{font-family:'Medeo Mono',monospace;font-size:12px;letter-spacing:.18em;text-transform:uppercase;color:#7FA8F7;font-weight:600}
 .brand{display:flex;align-items:center;gap:9px;font-family:'Medeo Mono',monospace;font-size:11px;letter-spacing:.16em;color:#cfd4da;font-weight:600}
 .brand img{width:22px;height:22px;display:block}
 .h1{font-family:'Tiny5',sans-serif;font-size:64px;line-height:1.16;margin-top:auto;max-width:13ch}

diff --git a/docs/sw.js b/docs/sw.js
@@ -3,7 +3,7 @@
    запуск: HTML отдаём из сети (чтобы читатель всегда видел свежую версию),
    статику (шрифты, картинки, CSS) кэшируем надолго. */
 
-const VERSION = "geekovski-v2";
+const VERSION = "geekovski-v3";
 const STATIC_CACHE = `${VERSION}-static`;
 const PAGE_CACHE = `${VERSION}-pages`;
 

diff --git a/static/sw.js b/static/sw.js
@@ -3,7 +3,7 @@
    запуск: HTML отдаём из сети (чтобы читатель всегда видел свежую версию),
    статику (шрифты, картинки, CSS) кэшируем надолго. */
 
-const VERSION = "geekovski-v2";
+const VERSION = "geekovski-v3";
 const STATIC_CACHE = `${VERSION}-static`;
 const PAGE_CACHE = `${VERSION}-pages`;
 

diff --git a/tools/doop_style_frames.py b/tools/doop_style_frames.py
@@ -29,7 +29,7 @@ COMMON = """
 *{box-sizing:border-box;margin:0;padding:0}
 body{background:#0A0C0F;color:#E9EBEE;font-family:'Medeo Sans',sans-serif;padding:44px 52px;
      -webkit-font-smoothing:antialiased}
-.kicker{font-family:'Chava',monospace;font-size:12px;letter-spacing:.18em;text-transform:uppercase;color:#C9F24D}
+.kicker{font-family:'Chava',monospace;font-size:12px;letter-spacing:.18em;text-transform:uppercase;color:#7FA8F7}
 h2.sec{font-family:'RGS';font-style:italic;font-weight:900;font-size:34px;letter-spacing:-.025em;margin:6px 0 26px}
 .hint{font-family:'Medeo Mono',monospace;font-size:12px;color:#8B939E;letter-spacing:.02em}
 .label{font-family:'Chava',monospace;font-size:12px;letter-spacing:.1em;text-transform:uppercase;color:#8B939E}
@@ -83,7 +83,7 @@ def typography():
         "padding:20px 0;border-bottom:1px solid #1F252E'>"
         "<div><div class='label' style='color:#E9EBEE'>%s</div>"
         "<div class='hint' style='margin-top:6px'>%s</div>"
-        "<div class='hint' style='color:#C9F24D;margin-top:4px'>--fs-%s</div></div>"
+        "<div class='hint' style='color:#7FA8F7;margin-top:4px'>--fs-%s</div></div>"
         "<div>%s</div></div>" % (name, spec, tok, sample)
         for name, tok, spec, _c, sample in rows)
     body = ("<div class='kicker'>GEEKOVSKI · Style Guide</div>"
@@ -105,7 +105,7 @@ def palette():
                 % (hexv, name, hexv, note))
 
     base = [("ink", "#0A0C0F", "фон"), ("panel", "#11151A", "плашки"), ("line", "#1F252E", "разделители"),
-            ("text", "#E9EBEE", "текст"), ("muted", "#8B939E", "второй план"), ("accent", "#C9F24D", "акцент")]
+            ("text", "#E9EBEE", "текст"), ("muted", "#8B939E", "второй план"), ("accent", "#7FA8F7", "акцент")]
     body = ("<div class='kicker'>GEEKOVSKI · Style Guide</div><h2 class='sec'>Палитра</h2>"
             "<div style='display:grid;grid-template-columns:repeat(3,1fr);gap:12px'>"
             + "".join(sw(n, h, note) for n, h, note in base) + "</div>"
@@ -130,7 +130,7 @@ def tags_icons():
         "color:%s;border:1px solid %s;padding:4px 8px;border-radius:2px'>%s</span>" % (CAT_COLORS[c], CAT_COLORS[c], n)
         for c, n in CAT_NAMES)
     solid = ("<span style='font-family:\"Chava\",monospace;font-size:12px;letter-spacing:.08em;text-transform:uppercase;"
-             "background:#C9F24D;color:#0A0C0F;padding:4px 8px;border-radius:2px'>Дайджест</span>")
+             "background:#7FA8F7;color:#0A0C0F;padding:4px 8px;border-radius:2px'>Дайджест</span>")
     small = ("<span style='font-family:\"Chava\",monospace;font-size:10px;letter-spacing:.08em;text-transform:uppercase;"
              "color:#8B939E;border:1px solid #1F252E;padding:2px 6px;border-radius:2px'>chip--sm</span>")
     icons = "".join(

diff --git a/tools/make_pins.py b/tools/make_pins.py
@@ -39,12 +39,12 @@ body{{width:1000px;height:1500px;overflow:hidden;background:#0A0C0F;position:rel
 .tint{{position:absolute;inset:0;background:radial-gradient(circle at 80% 10%,{c}33 0%,transparent 55%);mix-blend-mode:screen}}
 .wrap{{position:absolute;inset:0;padding:56px 60px 64px;display:flex;flex-direction:column;justify-content:space-between;z-index:2}}
 .top{{display:flex;align-items:center;justify-content:space-between}}
-.brand{{font-family:'Chava',monospace;font-size:26px;letter-spacing:.22em;color:#C9F24D}}
+.brand{{font-family:'Chava',monospace;font-size:26px;letter-spacing:.22em;color:#7FA8F7}}
 .tag{{font-family:'Chava',monospace;font-size:24px;letter-spacing:.16em;color:{c};border:2px solid {c};padding:6px 14px}}
 .bottom{{display:flex;flex-direction:column;gap:22px}}
 h1{{font-family:'RGS';font-style:italic;font-weight:900;font-size:{size}px;line-height:1.02;letter-spacing:-.025em}}
 .meta{{font-family:'Chava',monospace;font-size:24px;letter-spacing:.14em;text-transform:uppercase;color:#8B939E}}
-.meta b{{color:#C9F24D}}
+.meta b{{color:#7FA8F7}}
 </style></head><body>
 <div class="photo"></div><div class="tint"></div><div class="scrim"></div>
 <div class="wrap">
@@ -101,7 +101,7 @@ def photo_url(cover):
 
 def render(slug, meta):
     cat = meta.get("category", "ai")
-    color = CAT_COLOR.get(cat, "#C9F24D")
+    color = CAT_COLOR.get(cat, "#7FA8F7")
     title = meta.get("title", "").strip().rstrip(".")
     size = 92 if len(title) <= 40 else (76 if len(title) <= 60 else 62)
     day, month = "", ""

diff --git a/tools/make_anno_covers.py b/tools/make_anno_covers.py
@@ -48,7 +48,7 @@ body{{width:1200px;height:675px;overflow:hidden;background:#0A0C0F;position:rela
 .ep{{font-size:22px;letter-spacing:.22em;text-transform:uppercase;color:#8B939E}}
 .bottom{{display:flex;flex-direction:column;gap:18px}}
 .date{{font-size:34px;letter-spacing:.14em;text-transform:uppercase;color:#8B939E}}
-.date b{{color:#C9F24D}}
+.date b{{color:#7FA8F7}}
 h1{{font-size:{size}px;line-height:1.02;letter-spacing:-.01em;text-transform:uppercase;color:#E9EBEE;
   text-shadow:0 4px 30px rgba(0,0,0,.6)}}
 .plat{{font-size:24px;letter-spacing:.18em;text-transform:uppercase;color:{c}}}
@@ -101,7 +101,7 @@ def records():
 def render(rec):
     title = rec["title"]
     cat = rec["category"]
-    color = CAT_COLOR.get(cat, "#C9F24D")
+    color = CAT_COLOR.get(cat, "#7FA8F7")
     y, m, d = rec["date"].split("-")
     size = 104 if len(title) <= 16 else (82 if len(title) <= 28 else 64)
     plats = " · ".join(PLAT.get(p, p.upper()) for p in rec.get("platforms", "").split())
